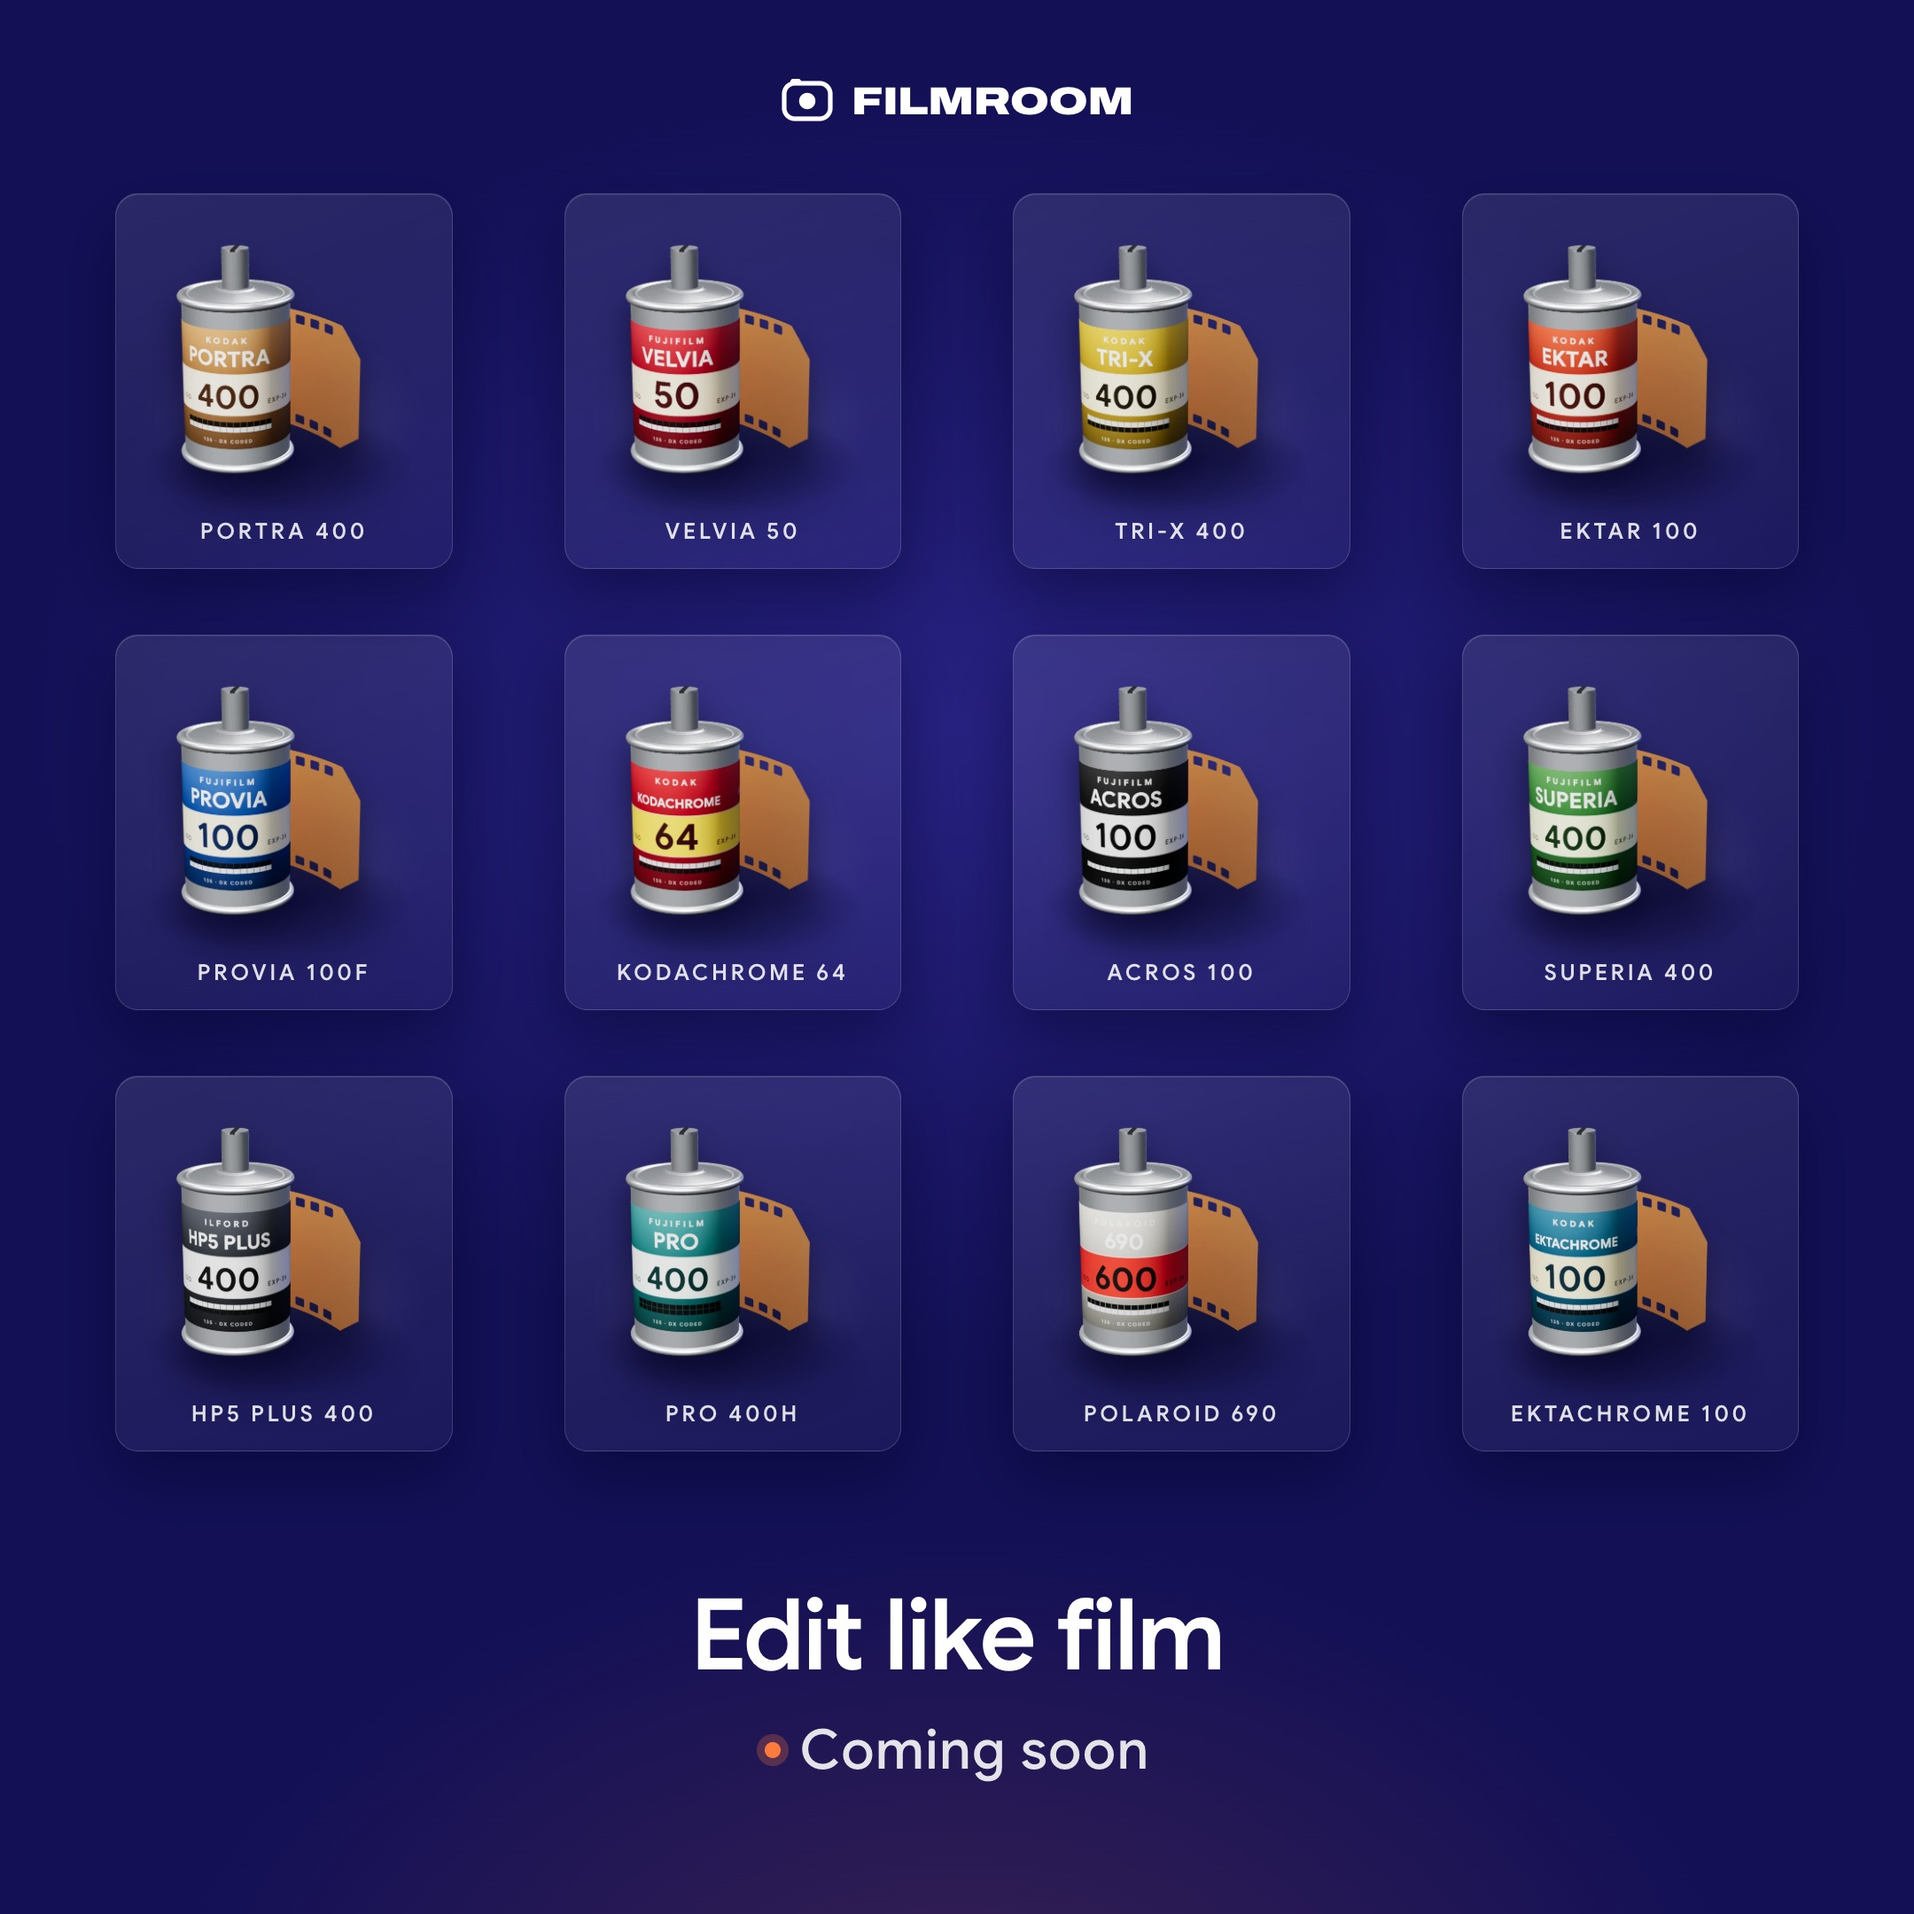
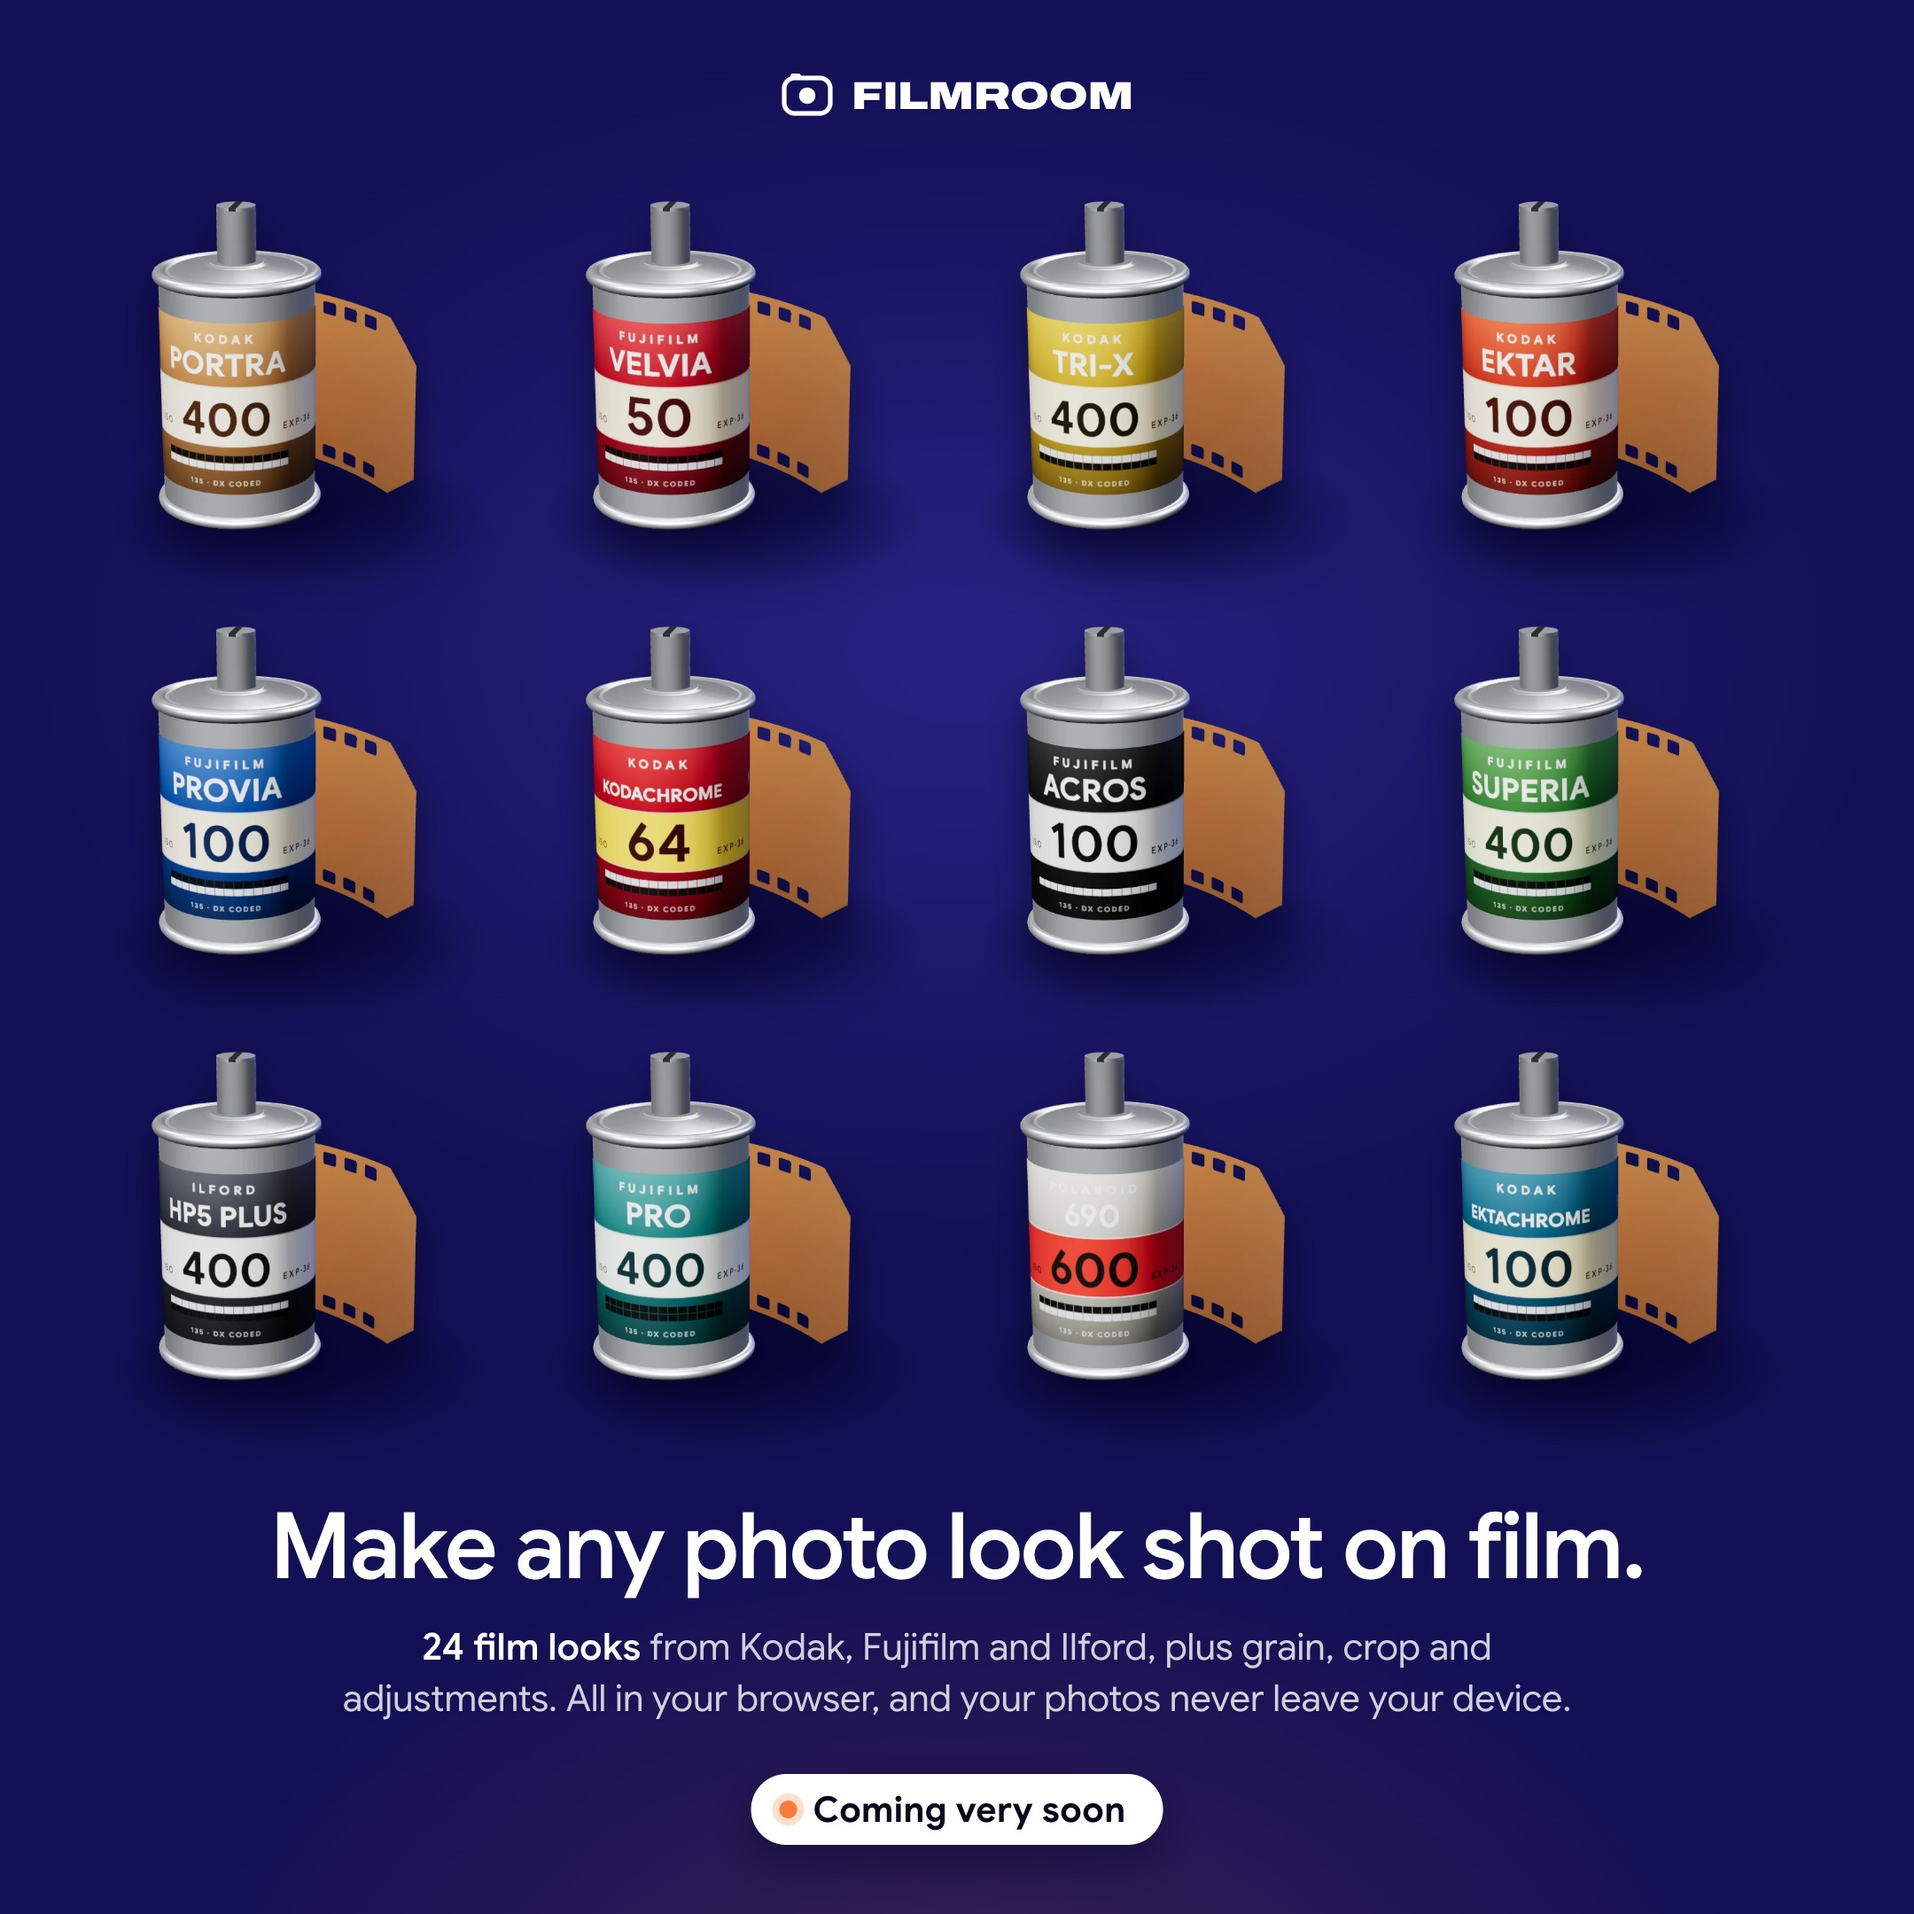
Poster: just the films (no boxes), bigger, with a heading, subheading and a Coming very soon badge

diff --git a/poster/grid.html b/poster/grid.html
@@ -3,54 +3,45 @@
 <head>
 <meta charset="utf-8"><title>Filmroom poster: film grid</title>
 <!--
-  Square "coming soon" poster: twelve film rolls in a 4 x 3 grid, the Filmroom logo on top, "Edit like film / Coming soon" below.
-  Layout follows the wireframe. Rendered at 2160 x 2160 (open this page at that viewport and screenshot it).
+  Square "coming soon" poster: twelve film rolls (just the films, no boxes) in a 4 x 3 grid, the Filmroom logo on top,
+  a heading, a subheading and a "Coming very soon" badge below. Rendered at 2160 x 2160 (open this page at that viewport and screenshot it).
   Cartridges: poster/grid-art/*.webp (3D renders, see tools/render-cartridges.html).
 -->
 <link href="https://fonts.googleapis.com/css2?family=Archivo:wdth,wght@100..125,100..900&family=Google+Sans:wght@400..700&display=swap" rel="stylesheet">
 <style>
-  :root { --navy:#131056; }
+  :root { --navy:#131056; --ink:#06061c; --orange:#ff7a3d; }
   * { box-sizing:border-box; margin:0; }
   html, body { background:#000; }
   body { font-family:"Google Sans", system-ui, sans-serif; color:#fff; -webkit-font-smoothing:antialiased; }
   .poster { position:relative; width:2160px; height:2160px; overflow:hidden; background:
-      radial-gradient(70% 48% at 50% 38%, rgba(86,74,230,.30), transparent 70%),
+      radial-gradient(70% 46% at 50% 34%, rgba(86,74,230,.30), transparent 70%),
       radial-gradient(60% 40% at 50% 108%, rgba(255,122,61,.16), transparent 70%),
       var(--navy); }
-  .brand { position:absolute; top:84px; left:0; right:0; display:flex; align-items:center; justify-content:center; gap:20px;
+  .brand { position:absolute; top:78px; left:0; right:0; display:flex; align-items:center; justify-content:center; gap:20px;
     font:900 44px/1 Archivo, sans-serif; font-stretch:125%; text-transform:uppercase; letter-spacing:-.01em; }
   .brand svg { width:60px; height:60px; }
-  .grid { position:absolute; left:130px; right:130px; top:218px; display:grid; grid-template-columns:repeat(4, 1fr); column-gap:126px; row-gap:74px; }
-  .tile { height:424px; border-radius:26px; background:linear-gradient(160deg, rgba(255,255,255,.10), rgba(255,255,255,.035)); border:1.5px solid rgba(255,255,255,.14);
-    box-shadow:0 30px 70px rgba(2,2,40,.45), inset 0 1px 0 rgba(255,255,255,.14); display:flex; flex-direction:column; align-items:center; justify-content:flex-start; padding-top:22px; position:relative; overflow:hidden; }
-  .tile::before { content:''; position:absolute; left:10%; right:10%; top:38%; height:44%; background:radial-gradient(closest-side, rgba(255,255,255,.12), transparent); filter:blur(12px); }
-  .tile img { position:relative; width:310px; height:334px; object-fit:contain; filter:drop-shadow(0 22px 18px rgba(0,0,20,.55)); }
-  .tile span { position:absolute; left:0; right:0; bottom:26px; text-align:center; font-weight:600; font-size:25px; letter-spacing:.14em; text-transform:uppercase; color:rgba(255,255,255,.86); }
-  .tag { position:absolute; left:0; right:0; text-align:center; }
-  .tag.l1 { top:1790px; font:600 112px/1 "Google Sans", sans-serif; letter-spacing:-.02em; }
-  .tag.l2 { top:1944px; font:500 62px/1 "Google Sans", sans-serif; letter-spacing:.02em; color:rgba(255,255,255,.88); display:flex; align-items:center; justify-content:center; gap:22px; }
-  .tag.l2 i { width:18px; height:18px; border-radius:50%; background:#ff7a3d; box-shadow:0 0 0 9px rgba(255,122,61,.25); }
+  /* just the films: no boxes, no labels (each cartridge already carries its own name) */
+  .grid { position:absolute; left:100px; right:100px; top:176px; display:grid; grid-template-columns:repeat(4, 1fr); row-gap:0; justify-items:center; }
+  .grid img { width:446px; height:480px; object-fit:contain; filter:drop-shadow(0 26px 22px rgba(0,0,20,.5)); }
+  h1 { position:absolute; left:0; right:0; top:1692px; text-align:center; font:600 104px/1.04 "Google Sans", sans-serif; letter-spacing:-.025em; }
+  .sub { position:absolute; left:50%; transform:translateX(-50%); top:1830px; width:1640px; text-align:center; font:400 42px/1.38 "Google Sans", sans-serif; color:rgba(255,255,255,.80); text-wrap:balance; }
+  .sub b { color:#fff; font-weight:600; }
+  .badge { position:absolute; left:50%; transform:translateX(-50%); top:2002px; display:inline-flex; align-items:center; gap:18px; padding:20px 42px 20px 32px; border-radius:999px;
+    background:#fff; color:var(--ink); font:700 40px/1 "Google Sans", sans-serif; letter-spacing:.01em; white-space:nowrap; box-shadow:0 18px 50px rgba(0,0,30,.45); }
+  .badge i { width:20px; height:20px; border-radius:50%; background:var(--orange); box-shadow:0 0 0 8px rgba(255,122,61,.25); }
 </style>
 </head>
 <body>
 <div class="poster" id="poster">
   <div class="brand"><svg viewBox="0 0 30 30" aria-hidden="true"><rect x="2" y="5" width="26" height="20" rx="6" fill="none" stroke="#fff" stroke-width="2.6"/><circle cx="15" cy="15" r="4.6" fill="#fff"/><rect x="5.5" y="2.5" width="6" height="3.5" rx="1.5" fill="#fff"/></svg>Filmroom</div>
   <div class="grid">
-    <div class="tile"><img src="grid-art/p400.webp" alt=""><span>Portra 400</span></div>
-    <div class="tile"><img src="grid-art/velv.webp" alt=""><span>Velvia 50</span></div>
-    <div class="tile"><img src="grid-art/trix.webp" alt=""><span>Tri-X 400</span></div>
-    <div class="tile"><img src="grid-art/ektr.webp" alt=""><span>Ektar 100</span></div>
-    <div class="tile"><img src="grid-art/prov.webp" alt=""><span>Provia 100F</span></div>
-    <div class="tile"><img src="grid-art/koda.webp" alt=""><span>Kodachrome 64</span></div>
-    <div class="tile"><img src="grid-art/acrs.webp" alt=""><span>Acros 100</span></div>
-    <div class="tile"><img src="grid-art/s400.webp" alt=""><span>Superia 400</span></div>
-    <div class="tile"><img src="grid-art/hp5.webp" alt=""><span>HP5 Plus 400</span></div>
-    <div class="tile"><img src="grid-art/400h.webp" alt=""><span>Pro 400H</span></div>
-    <div class="tile"><img src="grid-art/pola.webp" alt=""><span>Polaroid 690</span></div>
-    <div class="tile"><img src="grid-art/ekta.webp" alt=""><span>Ektachrome 100</span></div>
+    <img src="grid-art/p400.webp" alt="Kodak Portra 400"><img src="grid-art/velv.webp" alt="Fujifilm Velvia 50"><img src="grid-art/trix.webp" alt="Kodak Tri-X 400"><img src="grid-art/ektr.webp" alt="Kodak Ektar 100">
+    <img src="grid-art/prov.webp" alt="Fujifilm Provia 100F"><img src="grid-art/koda.webp" alt="Kodak Kodachrome 64"><img src="grid-art/acrs.webp" alt="Fujifilm Acros 100"><img src="grid-art/s400.webp" alt="Fujifilm Superia 400">
+    <img src="grid-art/hp5.webp" alt="Ilford HP5 Plus 400"><img src="grid-art/400h.webp" alt="Fujifilm Pro 400H"><img src="grid-art/pola.webp" alt="Polaroid 690"><img src="grid-art/ekta.webp" alt="Kodak Ektachrome 100">
   </div>
-  <div class="tag l1">Edit like film</div>
-  <div class="tag l2"><i></i>Coming soon</div>
+  <h1>Make any photo look shot on film.</h1>
+  <p class="sub"><b>24 film looks</b> from Kodak, Fujifilm and Ilford, plus grain, crop and adjustments. All in your browser, and your photos never leave your device.</p>
+  <div class="badge"><i></i>Coming very soon</div>
 </div>
 </body>
 </html>
